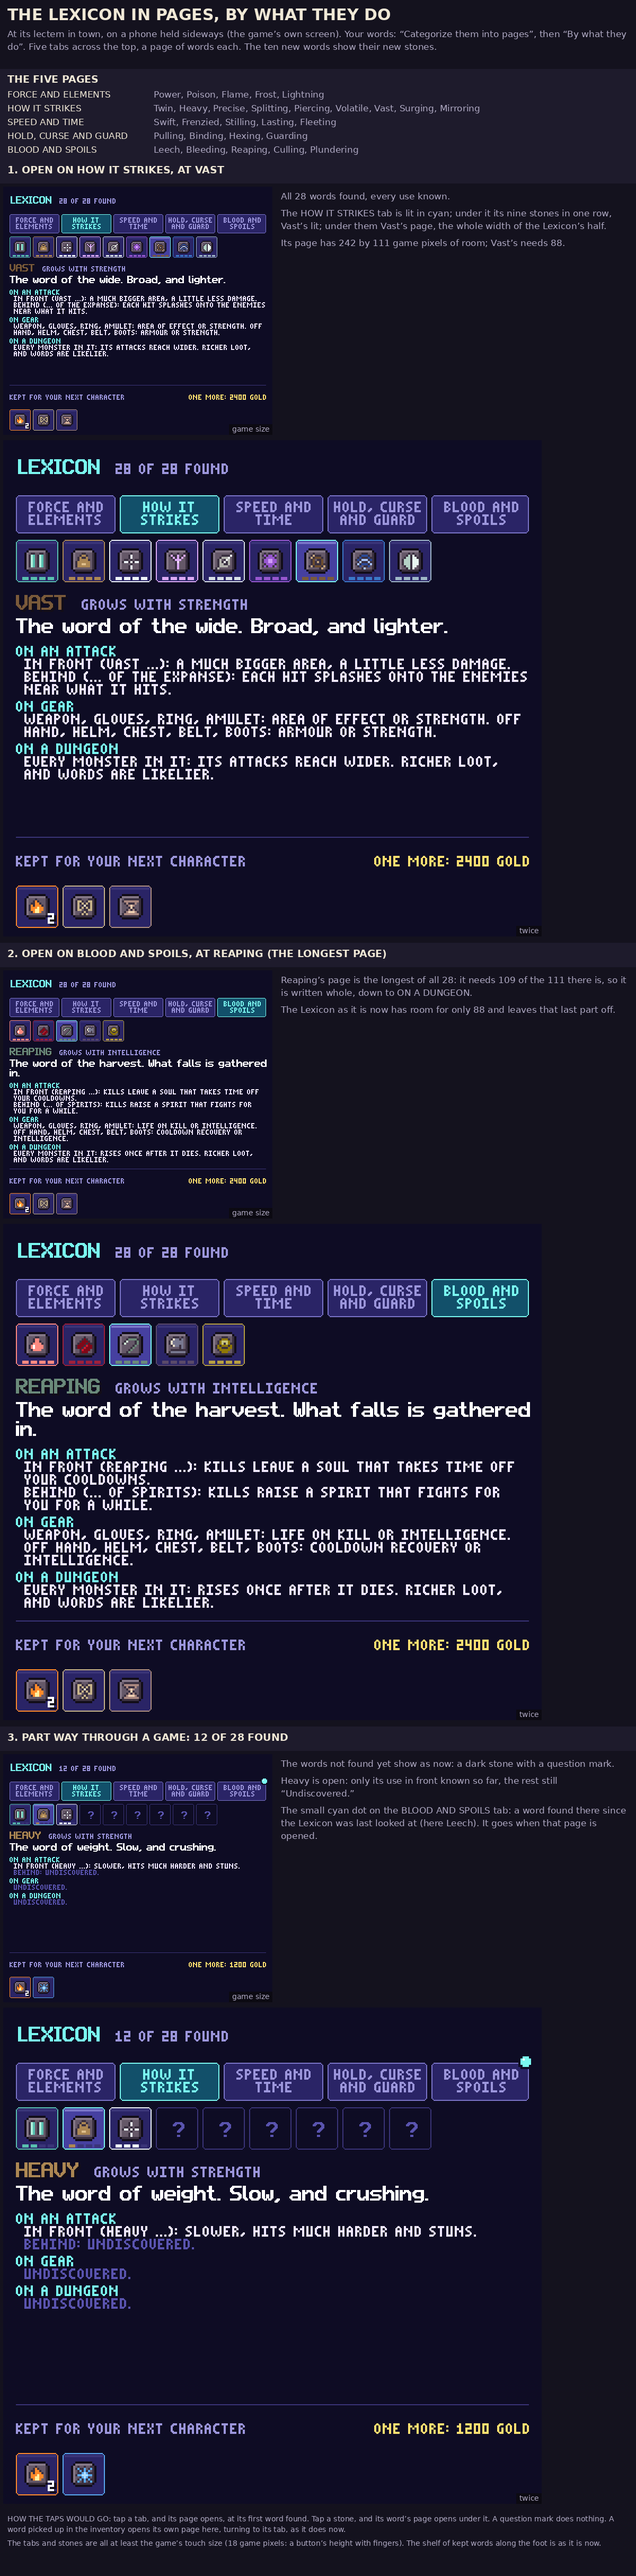
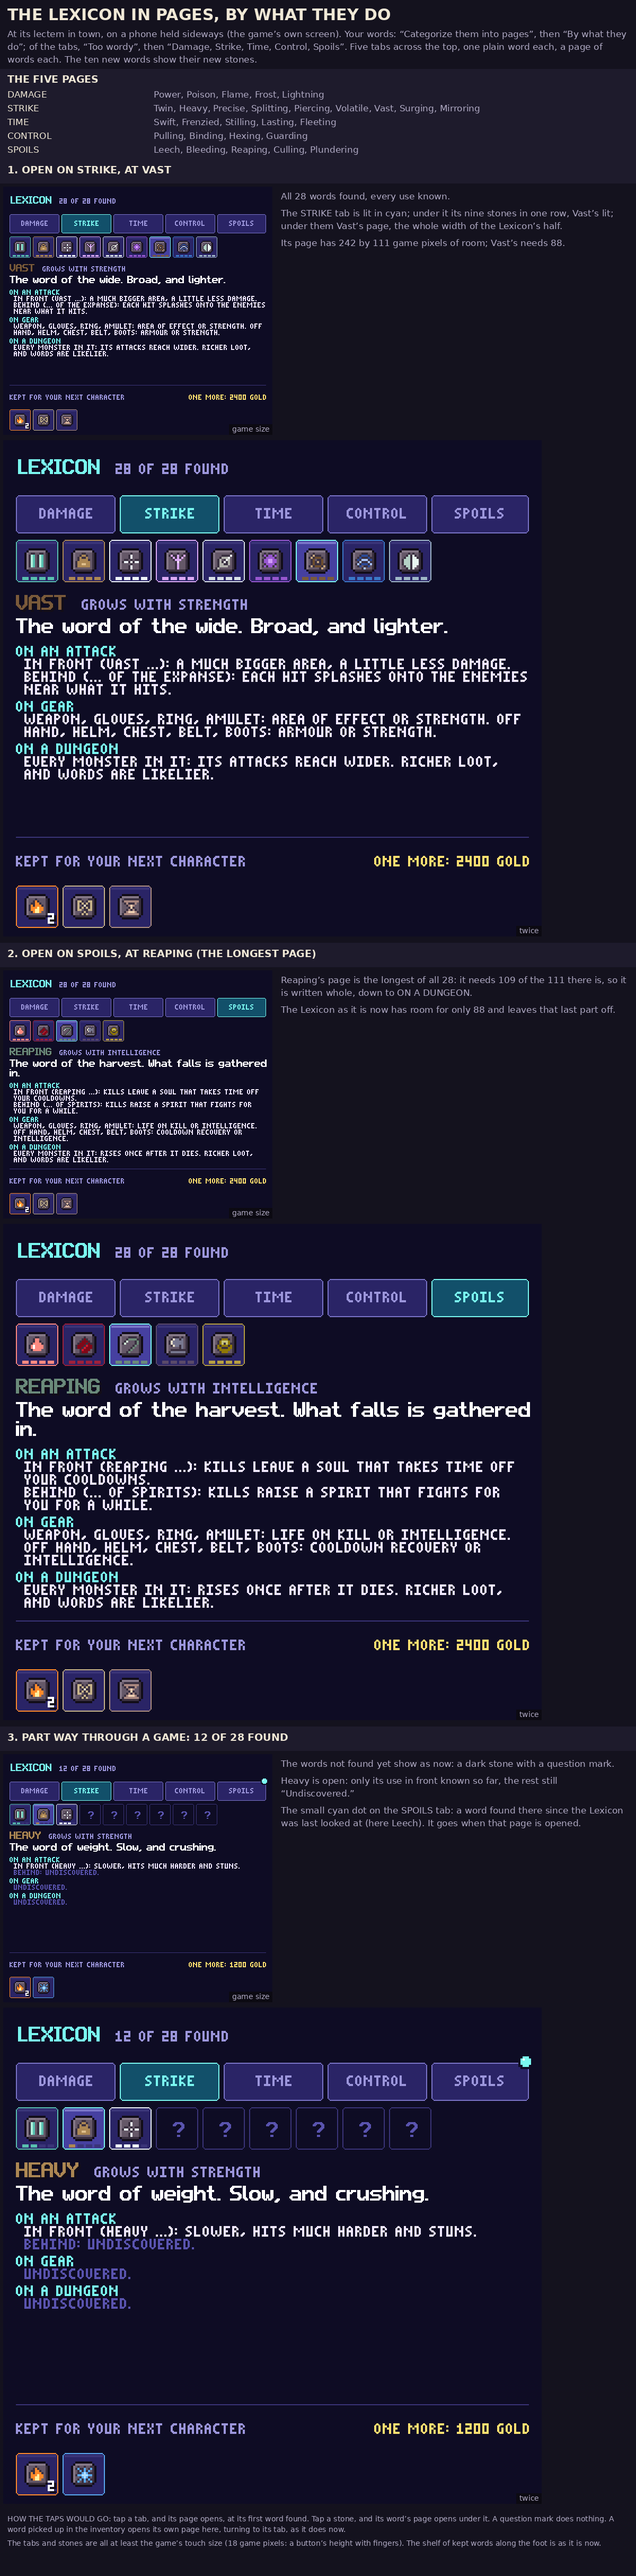
The Lexicon's five tabs one word each, his pick: DAMAGE, STRIKE, TIME, CONTROL, SPOILS (behind LEX28, still 'rows', the game's own)
His words, 9 Nov by 17:10: “I don’t really like the tabs names.  Too wordy”; then “Damage, Strike, Time, Control,
Spoils (Recommended)”. The same pages, words and order; each name once across the middle of its tab. lexicon_pages.png
made again with its own tool. tests/words10.test.ts 8 of 8.

Claude-Session: https://claude.ai/code/session_013AACgPRU4FucfYyJnBGYM1

diff --git a/src/ui/lexicon28.ts b/src/ui/lexicon28.ts
@@ -51,14 +51,15 @@ export const TOUCH_MIN = 18;
 
 /**
  * 'groups': the Lexicon's pages, its 28 words sorted by what they do (his “By what they do”, 9 Nov 2026), each word on one page;
- * `tab`, its name as its tab writes it, in two lines. At most nine words a page: one row of stones across the half.
+ * `tab`, its name as its tab writes it: one plain word each (his, 9 Nov by 17:10: “I don’t really like the tabs names.  Too
+ * wordy”, then “Damage, Strike, Time, Control, Spoils (Recommended)”). At most nine words a page: one row of stones across the half.
  */
-export const LEX_PAGES: readonly { name: string; tab: readonly [string, string]; words: readonly WordId[] }[] = [
-  { name: 'FORCE AND ELEMENTS', tab: ['FORCE AND', 'ELEMENTS'], words: ['power', 'poison', 'fire', 'frost', 'lightning'] },
-  { name: 'HOW IT STRIKES', tab: ['HOW IT', 'STRIKES'], words: ['twin', 'heavy', 'precise', 'splitting', 'piercing', 'volatile', 'vast', 'surging', 'mirroring'] },
-  { name: 'SPEED AND TIME', tab: ['SPEED AND', 'TIME'], words: ['swift', 'frenzied', 'stilling', 'lasting', 'fleeting'] },
-  { name: 'HOLD, CURSE AND GUARD', tab: ['HOLD, CURSE', 'AND GUARD'], words: ['pulling', 'binding', 'hexing', 'guarding'] },
-  { name: 'BLOOD AND SPOILS', tab: ['BLOOD AND', 'SPOILS'], words: ['leech', 'bleeding', 'reaping', 'culling', 'plundering'] },
+export const LEX_PAGES: readonly { name: string; tab: readonly string[]; words: readonly WordId[] }[] = [
+  { name: 'DAMAGE', tab: ['DAMAGE'], words: ['power', 'poison', 'fire', 'frost', 'lightning'] },
+  { name: 'STRIKE', tab: ['STRIKE'], words: ['twin', 'heavy', 'precise', 'splitting', 'piercing', 'volatile', 'vast', 'surging', 'mirroring'] },
+  { name: 'TIME', tab: ['TIME'], words: ['swift', 'frenzied', 'stilling', 'lasting', 'fleeting'] },
+  { name: 'CONTROL', tab: ['CONTROL'], words: ['pulling', 'binding', 'hexing', 'guarding'] },
+  { name: 'SPOILS', tab: ['SPOILS'], words: ['leech', 'bleeding', 'reaping', 'culling', 'plundering'] },
 ];
 
 /** Which of the Lexicon's pages a word is on ('groups'). */
@@ -163,7 +164,7 @@ export function pageHeight(meta: Meta, w: WordId, pw: number): number {
 }
 
 /**
- * 'groups': the row of tabs, each its page's name in two lines; the open one lit in the friend's cyan, the rest with the rim that
+ * 'groups': the row of tabs, each its page's name, one word, in the middle of it; the open one lit in the friend's cyan, the rest with the rim that
  * says a thing can be pressed. The tab of a page holding a word found since the Lexicon was last looked at (LEX28.fresh) carries
  * a small cyan stud on its top right corner (the open page's none: it is being looked at).
  */
@@ -172,11 +173,11 @@ function drawTabs(ui: Ui, meta: Meta, tabs: Rect[], at: number): void {
   tabs.forEach((t, i) => {
     const on = i === at;
     ui.box(t.x, t.y, t.w, t.h, on ? THEME.accentBg : THEME.bg2, on ? THEME.accent : THEME.edgeHi);
-    const [a, b] = LEX_PAGES[i].tab;
-    const ty = t.y + Math.floor((t.h - 11) / 2);
+    // (its name, one word, in the middle of it each way: the odd pixel, if any, to the right and below)
+    const lines = LEX_PAGES[i].tab;
+    const ty = t.y + Math.floor((t.h - (lines.length * 6 - 1)) / 2);
     const col = on ? THEME.accent : THEME.dim;
-    drawText(g, a, t.x + Math.floor(t.w / 2), ty, col, { align: 'center', font: 'small' });
-    drawText(g, b, t.x + Math.floor(t.w / 2), ty + 6, col, { align: 'center', font: 'small' });
+    lines.forEach((ln, k) => drawText(g, ln, t.x + Math.floor((t.w - textWidth(ln, 'small')) / 2), ty + k * 6, col, { font: 'small' }));
     if (!on && LEX28.fresh.some((w) => meta.known[w].found && LEX_PAGES[i].words.includes(w))) {
       // (a round stud 5 across, a glint at its top left, ringed in ink where it lies over the tab's rim; clear of the name under it)
       const mx = t.x + t.w - 5;

diff --git a/tests/words10.test.ts b/tests/words10.test.ts
@@ -410,6 +410,9 @@ test("8. the Lexicon in pages by what they do ('groups'): all 28 words, each onc
   assert.equal(new Set(all).size, 28, 'no word on two pages');
   assert.deepEqual([...all].sort(), [...WORD_IDS].sort(), 'every word on a page');
   for (const w of WORD_IDS) assert.ok(LEX_PAGES[lexPageOf(w)].words.includes(w), `${w}: its page`);
+  // its tabs' names, one plain word each, in his order (9 Nov by 17:10: “Damage, Strike, Time, Control, Spoils (Recommended)”)
+  assert.deepEqual(LEX_PAGES.map((p) => p.tab.join(' ')), ['DAMAGE', 'STRIKE', 'TIME', 'CONTROL', 'SPOILS']);
+  for (const p of LEX_PAGES) assert.ok(p.tab.length === 1 && !/\s/.test(p.tab[0]) && p.name === p.tab[0], `${p.name}: one word`);
   // the lectern's half on a phone held sideways, every word found and every use known
   const half = { x: 0, y: 0, w: 254, h: 234 };
   const meta = newMeta();
@@ -423,7 +426,7 @@ test("8. the Lexicon in pages by what they do ('groups'): all 28 words, each onc
     for (const L of [lex28Layout(half, true, 'groups', p.words[p.words.length - 1]), lex28Layout(half, true, 'groups', null, i), lex28Layout(half, true, 'groups', 'power', i)]) {
       assert.equal(L.tab, i, `${p.name}: the open tab`);
       assert.deepEqual(L.cells.map((c) => c.w), [...p.words], `${p.name}: its own stones, in order`);
-      // the tabs: five, a row across the top, the touch size, inside the half, apart; each name's two lines inside its tab
+      // the tabs: five, a row across the top, the touch size, inside the half, apart; each name inside its tab
       assert.equal(L.tabs?.length, 5);
       const tabs = L.tabs ?? [];
       tabs.forEach((t, j) => {
@@ -431,7 +434,7 @@ test("8. the Lexicon in pages by what they do ('groups'): all 28 words, each onc
         assert.ok(within(t, half), `${LEX_PAGES[j].name}'s tab off the half`);
         for (const u of tabs) if (u !== t) assert.ok(apart(t, u), 'two tabs on one another');
         for (const line of LEX_PAGES[j].tab) assert.ok(textWidth(line, 'small') <= t.w - 4, `"${line}" (${textWidth(line, 'small')}) in a tab ${t.w} across`);
-        assert.ok(11 <= t.h - 4, 'two lines of its name in its height');
+        assert.ok(LEX_PAGES[j].tab.length * 6 - 1 <= t.h - 4, 'its name in its height');
         assert.ok(t.y + t.h <= L.page.y, 'a tab on the page');
       });
       // the stones: the touch size, inside the half, apart from one another and from the tabs, above the page and the shelf

diff --git a/tools/words10_sheet.py b/tools/words10_sheet.py
@@ -9,7 +9,7 @@
            open on the longest page: the game's own rows as they are, then each way to lay out its stones, at the game's size and
            at twice, the pick marked.
   pages:   docs/mockups/words10/pictures/lexicon_pages.png: the Lexicon's words in five pages by what they do (way 'groups'), a
-           tab each: open on HOW IT STRIKES at Vast, on BLOOD AND SPOILS at Reaping (the longest page), and part way through a
+           tab each, its name one word: open on STRIKE at Vast, on SPOILS at Reaping (the longest page), and part way through a
            game, some words not yet found; each at the game's size and at twice (tools/scenarios/words10_lexpages.mjs).
 
 The stills are the game's own pictures (tools/scenarios/words10_looks.mjs and words10_lexicon.mjs, at five screen pixels a game
@@ -264,31 +264,32 @@ elif mode == 'pages':
     # THE LEXICON IN PAGES BY WHAT THEY DO (ui/lexicon28.ts, way 'groups'): tools/scenarios/words10_lexpages.mjs's three pictures
     #   python3 tools/words10_sheet.py pages <prefix, e.g. /dev/shm/w10p/pg> <out.png>
     PAGES = [
-        ('FORCE AND ELEMENTS', 'Power, Poison, Flame, Frost, Lightning'),
-        ('HOW IT STRIKES', 'Twin, Heavy, Precise, Splitting, Piercing, Volatile, Vast, Surging, Mirroring'),
-        ('SPEED AND TIME', 'Swift, Frenzied, Stilling, Lasting, Fleeting'),
-        ('HOLD, CURSE AND GUARD', 'Pulling, Binding, Hexing, Guarding'),
-        ('BLOOD AND SPOILS', 'Leech, Bleeding, Reaping, Culling, Plundering'),
+        ('DAMAGE', 'Power, Poison, Flame, Frost, Lightning'),
+        ('STRIKE', 'Twin, Heavy, Precise, Splitting, Piercing, Volatile, Vast, Surging, Mirroring'),
+        ('TIME', 'Swift, Frenzied, Stilling, Lasting, Fleeting'),
+        ('CONTROL', 'Pulling, Binding, Hexing, Guarding'),
+        ('SPOILS', 'Leech, Bleeding, Reaping, Culling, Plundering'),
     ]
     SHOTS = [
-        ('vast', '1. OPEN ON HOW IT STRIKES, AT VAST',
+        ('vast', '1. OPEN ON STRIKE, AT VAST',
          ['All 28 words found, every use known.',
-          'The HOW IT STRIKES tab is lit in cyan; under it its nine stones in one row, Vast’s lit; under them Vast’s page, the whole width of the Lexicon’s half.',
+          'The STRIKE tab is lit in cyan; under it its nine stones in one row, Vast’s lit; under them Vast’s page, the whole width of the Lexicon’s half.',
           'Its page has {w} by {h} game pixels of room; Vast’s needs {need}.']),
-        ('reaping', '2. OPEN ON BLOOD AND SPOILS, AT REAPING (THE LONGEST PAGE)',
+        ('reaping', '2. OPEN ON SPOILS, AT REAPING (THE LONGEST PAGE)',
          ['Reaping’s page is the longest of all 28: it needs {need} of the {h} there is, so it is written whole, down to ON A DUNGEON.',
           'The Lexicon as it is now has room for only {old} and leaves that last part off.']),
         ('early', '3. PART WAY THROUGH A GAME: 12 OF 28 FOUND',
          ['The words not found yet show as now: a dark stone with a question mark.',
           'Heavy is open: only its use in front known so far, the rest still “Undiscovered.”',
-          'The small cyan dot on the BLOOD AND SPOILS tab: a word found there since the Lexicon was last looked at (here Leech). It goes when that page is opened.']),
+          'The small cyan dot on the SPOILS tab: a word found there since the Lexicon was last looked at (here Leech). It goes when that page is opened.']),
     ]
     blocks = []
     head = Image.new('RGB', (W, 130), BG)
     d = ImageDraw.Draw(head)
     d.text((14, 10), 'THE LEXICON IN PAGES, BY WHAT THEY DO', font=big, fill=PALE)
     intro = ('At its lectern in town, on a phone held sideways (the game’s own screen). Your words: “Categorize them into pages”, then '
-             '“By what they do”. Five tabs across the top, a page of words each. The ten new words show their new stones.')
+             '“By what they do”; of the tabs, “Too wordy”, then “Damage, Strike, Time, Control, Spoils”. Five tabs across the top, '
+             'one plain word each, a page of words each. The ten new words show their new stones.')
     for k, part in enumerate(wrap(d, intro, small, W - 28)):
         d.text((14, 54 + 24 * k), part, font=small, fill=GREY)
     blocks.append(head)

diff --git a/docs/mockups/words10/README.md b/docs/mockups/words10/README.md
@@ -217,7 +217,7 @@ could be written in its dust (`#c4a47e`). The colour is the three words' work, n
 
 ### The picture
 
-`pictures/lexicon_pages.png` (1200 by 4858): the five pages listed; then the Lexicon at its lectern in town on a phone held sideways,
+`pictures/lexicon_pages.png` (1200 by 4858; made again in step 1d, below, its tabs one word each): the five pages listed; then the Lexicon at its lectern in town on a phone held sideways,
 each at the game's size and at twice: (1) all 28 found, open on HOW IT STRIKES at Vast; (2) open on BLOOD AND SPOILS at Reaping,
 the longest page; (3) part way through a game, 12 of 28 found, open on HOW IT STRIKES at Heavy (only its use in front known), Leech
 just found and its page's tab marked. Captioned in plain words; the ten new words show the art chat's stones.
@@ -241,3 +241,28 @@ just found and its page's tab marked. Captioned in plain words; the ten new word
   before this step), `words` 26 of 29 (the rules' loadouts: it counts 162 where words10's words make 397) and `word_room` 1 of 4
   (the inventory's room for every word at a service); these two reach no Lexicon code at all: the main chat's, with its new words.
 - Not run: the regression; a real phone.
+
+## Step 1d: the Lexicon's tabs, one word each (his word)
+
+### His words
+
+9 Nov by 17:10. Shown lexicon_pages.png and asked “Are the Lexicon's pages right (lexicon_pages.png)?”, he wrote: “I don’t really like the tabs names.  Too wordy”. Then asked “Too wordy, got it: one word per tab. Which set of tab names?”, he answered “Damage, Strike, Time, Control, Spoils (Recommended)” (offered as: one plain word each, in the same order).
+
+### The tabs
+
+The same five pages, the same words on each, in the same order; only their names, each one word, written once across the middle
+of its tab (`LEX_PAGES`, its `name` and `tab`, in `src/ui/lexicon28.ts`; still behind `LEX28`, `'rows'` the game's own):
+
+| Tab | Was | Its words |
+|---|---|---|
+| DAMAGE | FORCE AND ELEMENTS | Power, Poison, Flame, Frost, Lightning |
+| STRIKE | HOW IT STRIKES | Twin, Heavy, Precise, Splitting, Piercing, Volatile, Vast, Surging, Mirroring |
+| TIME | SPEED AND TIME | Swift, Frenzied, Stilling, Lasting, Fleeting |
+| CONTROL | HOLD, CURSE AND GUARD | Pulling, Binding, Hexing, Guarding |
+| SPOILS | BLOOD AND SPOILS | Leech, Bleeding, Reaping, Culling, Plundering |
+
+`pictures/lexicon_pages.png` made again with its own tool (`tools/scenarios/words10_lexpages.mjs`, `tools/words10_sheet.py pages`),
+the same three pictures and its list of the five pages by their new names (1200 by 4858). Looked at close, at the game's size and
+on the phone's own pixels: each name whole and in the middle of its tab, the same room to either side (where the room left over
+is odd, the odd pixel to the right: CONTROL 9 and 10, SPOILS 11 and 12, game pixels), 6 above and 7 below; the new-word stud on
+SPOILS clear of its name. `tests/words10.test.ts` 8 now also holds the five names, one word each, in his order.
